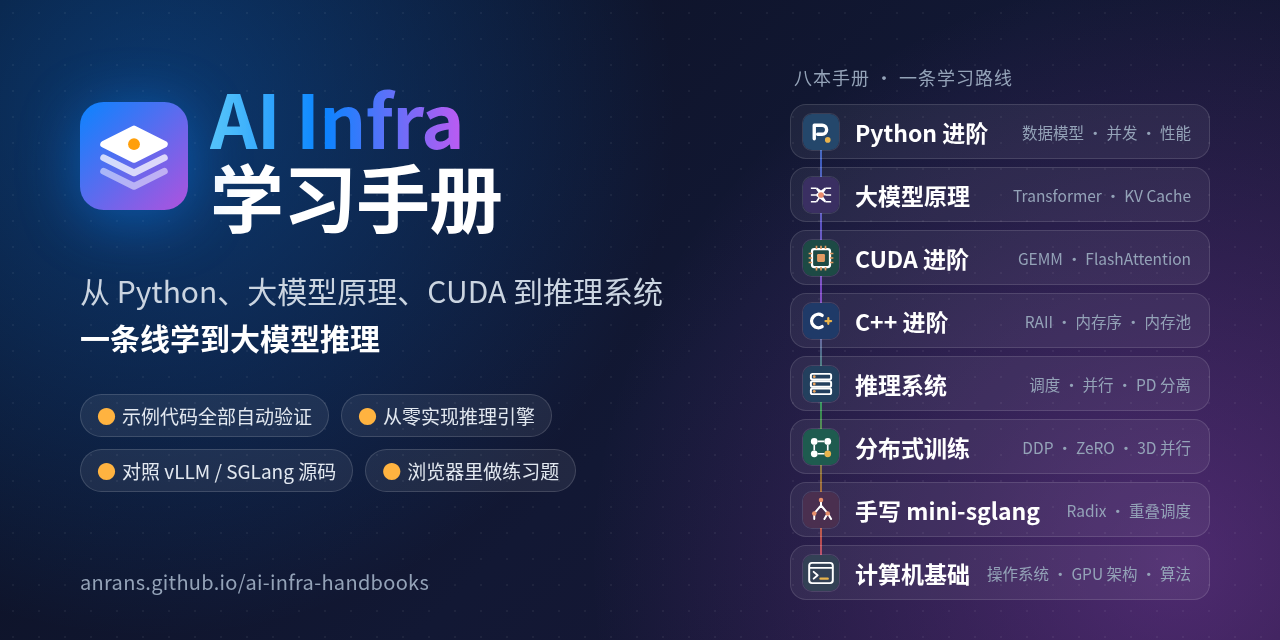
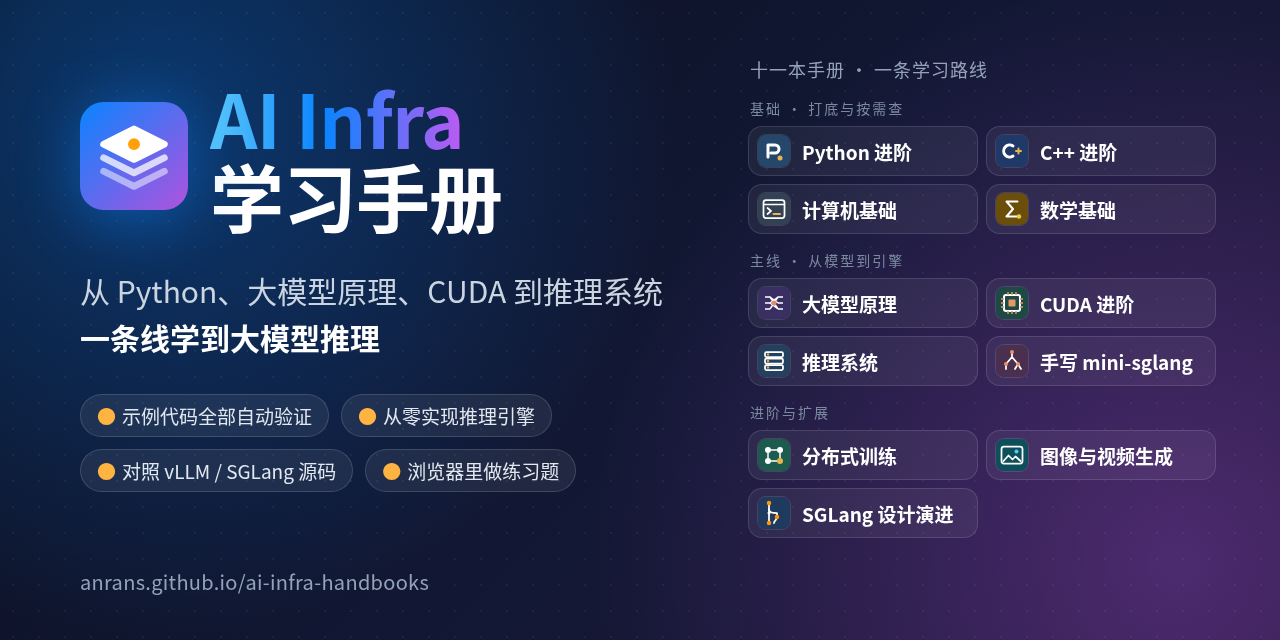
README 同步十一本手册：封面、学习路线图与说明
- 封面（README 顶部与社交预览图）：原来写着"八本手册"、只列了 8 本，改成十一本，按"基础 / 主线 / 进阶与扩展"三组排列
- 学习路线图加一条"数学基础 · 用到再查"；README 的说明、配图文字和目录结构同步（tools/redirects.py）
- 大模型原理手册的 README：模型改为 Qwen3-0.6B，说明数学已拆到数学基础手册、两本共用一套环境
- 图像与视频生成手册原来用的是计算机基础手册的图标，换成自己的图标

Changed region(s): [[0.5938, 0.1562, 0.9375, 0.9375], [0.5938, 0.0938, 0.7812, 0.1562]]

diff --git a/assets/brand/cover.html b/assets/brand/cover.html
@@ -26,16 +26,14 @@
     background: rgba(255,255,255,.07); border: 1px solid rgba(255,255,255,.14); }
   .chip i { font-style: normal; color: #ffb340; margin-right: 6px; }
   .url { position: absolute; left: 80px; bottom: 44px; font-size: 20px; color: #94a3b8; letter-spacing: .3px; }
-  .right { position: absolute; right: 70px; top: 64px; width: 420px; }
-  .rt { font-size: 18px; color: #94a3b8; margin: 0 0 14px 4px; letter-spacing: 1px; }
-  .route { position: relative; }
-  .route::before { content: ""; position: absolute; left: 30px; top: 22px; bottom: 22px; width: 2px;
-    background: linear-gradient(#3b82f6, #a855f7 40%, #22c55e 60%, #f97316 85%, #ec4899); opacity: .7; }
-  .book { position: relative; display: flex; align-items: center; gap: 16px; height: 55px; margin-bottom: 8px;
-    padding: 0 18px 0 12px; border-radius: 16px; background: rgba(255,255,255,.06); border: 1px solid rgba(255,255,255,.12); }
-  .ico { width: 36px; height: 36px; flex: none; border-radius: 9px; box-shadow: 0 0 0 1px rgba(255,255,255,.12); }
-  .name { font-size: 23px; font-weight: 700; flex: none; }
-  .desc { font-size: 15.5px; color: #94a3b8; margin-left: auto; white-space: nowrap; }
+  .right { position: absolute; right: 64px; top: 56px; width: 468px; }
+  .rt { font-size: 18px; color: #94a3b8; margin: 0 0 4px 2px; letter-spacing: 1px; }
+  .grp { font-size: 14px; color: #7c8aa0; margin: 16px 0 8px 2px; letter-spacing: 2px; }
+  .books { display: grid; grid-template-columns: 1fr 1fr; gap: 8px; }
+  .book { display: flex; align-items: center; gap: 12px; height: 50px; padding: 0 12px 0 9px; border-radius: 14px;
+    background: rgba(255,255,255,.06); border: 1px solid rgba(255,255,255,.12); }
+  .ico { width: 32px; height: 32px; flex: none; border-radius: 8px; box-shadow: 0 0 0 1px rgba(255,255,255,.12); }
+  .name { font-size: 19px; font-weight: 700; white-space: nowrap; }
 </style></head>
 <body>
   <div class="grid"></div>
@@ -51,16 +49,26 @@
   </div>
   <div class="url">anrans.github.io/ai-infra-handbooks</div>
   <div class="right">
-    <div class="rt">八本手册 · 一条学习路线</div>
-    <div class="route">
-      <div class="book"><img class="ico" src="../../python/docs/assets/favicon.svg" alt=""><span class="name">Python 进阶</span><span class="desc">数据模型 · 并发 · 性能</span></div>
-      <div class="book"><img class="ico" src="../../llm/docs/assets/favicon.svg" alt=""><span class="name">大模型原理</span><span class="desc">Transformer · KV Cache</span></div>
-      <div class="book"><img class="ico" src="../../cuda/docs/assets/favicon.svg" alt=""><span class="name">CUDA 进阶</span><span class="desc">GEMM · FlashAttention</span></div>
-      <div class="book"><img class="ico" src="../../cpp/docs/assets/favicon.svg" alt=""><span class="name">C++ 进阶</span><span class="desc">RAII · 内存序 · 内存池</span></div>
-      <div class="book"><img class="ico" src="../../serving/docs/assets/favicon.svg" alt=""><span class="name">推理系统</span><span class="desc">调度 · 并行 · PD 分离</span></div>
-      <div class="book"><img class="ico" src="../../train/docs/assets/favicon.svg" alt=""><span class="name">分布式训练</span><span class="desc">DDP · ZeRO · 3D 并行</span></div>
-      <div class="book"><img class="ico" src="../../minisgl/docs/assets/favicon.svg" alt=""><span class="name">手写 mini-sglang</span><span class="desc">Radix · 重叠调度</span></div>
-      <div class="book"><img class="ico" src="../../cs/docs/assets/favicon.svg" alt=""><span class="name">计算机基础</span><span class="desc">操作系统 · GPU 架构 · 算法</span></div>
-    </div>
+    <div class="rt">十一本手册 · 一条学习路线</div>
+    <div class="grp">基础 · 打底与按需查</div>
+      <div class="books">
+        <div class="book"><img class="ico" src="../../python/docs/assets/favicon.svg" alt=""><span class="name">Python 进阶</span></div>
+        <div class="book"><img class="ico" src="../../cpp/docs/assets/favicon.svg" alt=""><span class="name">C++ 进阶</span></div>
+        <div class="book"><img class="ico" src="../../cs/docs/assets/favicon.svg" alt=""><span class="name">计算机基础</span></div>
+        <div class="book"><img class="ico" src="../../math/docs/assets/favicon.svg" alt=""><span class="name">数学基础</span></div>
+      </div>
+    <div class="grp">主线 · 从模型到引擎</div>
+      <div class="books">
+        <div class="book"><img class="ico" src="../../llm/docs/assets/favicon.svg" alt=""><span class="name">大模型原理</span></div>
+        <div class="book"><img class="ico" src="../../cuda/docs/assets/favicon.svg" alt=""><span class="name">CUDA 进阶</span></div>
+        <div class="book"><img class="ico" src="../../serving/docs/assets/favicon.svg" alt=""><span class="name">推理系统</span></div>
+        <div class="book"><img class="ico" src="../../minisgl/docs/assets/favicon.svg" alt=""><span class="name">手写 mini-sglang</span></div>
+      </div>
+    <div class="grp">进阶与扩展</div>
+      <div class="books">
+        <div class="book"><img class="ico" src="../../train/docs/assets/favicon.svg" alt=""><span class="name">分布式训练</span></div>
+        <div class="book"><img class="ico" src="../../media/docs/assets/favicon.svg" alt=""><span class="name">图像与视频生成</span></div>
+        <div class="book"><img class="ico" src="../../sglang/docs/assets/favicon.svg" alt=""><span class="name">SGLang 设计演进</span></div>
+      </div>
   </div>
 </body></html>

diff --git a/assets/brand/path.html b/assets/brand/path.html
@@ -1,13 +1,13 @@
 <!doctype html>
 <!-- README 里的学习路线图，亮色、暗色各一张（背景色与 GitHub 的页面一致）。改完重新截图：
-     chromium --headless --hide-scrollbars --force-device-scale-factor=2 --window-size=1360,540 --screenshot=path-light.png "file://$PWD/path.html"
-     chromium --headless --hide-scrollbars --force-device-scale-factor=2 --window-size=1360,540 --screenshot=path-dark.png "file://$PWD/path.html#dark" -->
+     chromium --headless --hide-scrollbars --force-device-scale-factor=2 --window-size=1360,624 --screenshot=path-light.png "file://$PWD/path.html"
+     chromium --headless --hide-scrollbars --force-device-scale-factor=2 --window-size=1360,624 --screenshot=path-dark.png "file://$PWD/path.html#dark" -->
 <html lang="zh-CN"><head><meta charset="utf-8">
 <style>
   * { box-sizing: border-box; margin: 0; padding: 0; }
   :root { --bg: #ffffff; --card: #f6f8fa; --line: #d0d7de; --fg: #1f2328; --muted: #59636e; --arrow: #8c959f; }
   :root.dark { --bg: #0d1117; --card: #161b22; --line: #30363d; --fg: #f0f6fc; --muted: #9198a1; --arrow: #6e7681; }
-  html, body { width: 1360px; height: 540px; background: var(--bg); }
+  html, body { width: 1360px; height: 624px; background: var(--bg); }
   body { font-family: "Noto Sans CJK SC", sans-serif; color: var(--fg); position: relative; overflow: hidden; }
   .card { position: absolute; width: 228px; padding: 18px 18px 16px; border-radius: 16px; background: var(--card);
           border: 1px solid var(--line); border-top: 4px solid var(--c); }
@@ -22,7 +22,7 @@
   .tag { position: absolute; font-size: 16px; color: var(--muted); background: var(--bg); padding: 2px 8px;
          border: 1px solid var(--line); border-radius: 999px; white-space: nowrap; transform: translateX(-50%); }
   .c-blue { --c: #007aff; } .c-purple { --c: #af52de; } .c-orange { --c: #ff9500; } .c-brown { --c: #a2845e; }
-  .c-green { --c: #34c759; } .c-mint { --c: #00c7be; } .c-pink { --c: #ff2d55; } .c-slate { --c: #64748b; }
+  .c-green { --c: #34c759; } .c-mint { --c: #00c7be; } .c-pink { --c: #ff2d55; } .c-slate { --c: #64748b; } .c-gold { --c: #d4a017; }
   .bar { position: absolute; left: 16px; right: 16px; display: flex; align-items: center; gap: 14px; padding: 14px 18px;
          border-radius: 16px; background: var(--card); border: 1px solid var(--line); border-left: 4px solid var(--c); }
   .bar img { width: 40px; height: 40px; border-radius: 10px; flex: none; }
@@ -50,4 +50,6 @@
   <div class="card c-mint"  style="left:832px; top:264px"><div class="n">与分布式推理并行</div><div class="t"><img src="../../train/docs/assets/favicon.svg" alt=""><b>分布式训练</b></div><p class="d">DDP、ZeRO，TP / PP / EP 与推理一一对应</p></div>
   <!-- 贯穿全程的一本：学到哪一站需要就补哪一章 -->
   <div class="bar c-slate" style="top:462px"><img src="../../cs/docs/assets/favicon.svg" alt=""><span class="n">贯穿全程</span><b>计算机基础</b><span class="d">操作系统、GPU 架构、网络、分布式与算法：学到哪一站需要就补哪一章，面试前集中复习</span></div>
+  <!-- 用到再查的一本：读到哪一站卡住，就查对应的一节 -->
+  <div class="bar c-gold" style="top:546px"><img src="../../math/docs/assets/favicon.svg" alt=""><span class="n">用到再查</span><b>数学基础</b><span class="d">线性代数与低秩、概率与采样、信息论、浮点误差、屋顶线与排队论：读到哪一站卡住，就查对应的一节</span></div>
 </body></html>

diff --git a/README.md b/README.md
@@ -28,7 +28,7 @@
 
 **11** 本手册 · **281** 章 · **283** 道练习题 · **1977** 张学习卡 · **85** 道面试高频题
 
-这是一套面向大模型推理（推理框架、推理优化、推理平台）的中文学习手册。它从写地道的 Python 和 C++ 开始，讲清大模型在算什么、GPU 怎么算得快，接着从零写一个推理引擎、对照 vLLM 和 SGLang 的源码读懂工业级实现，最后把所有概念落到一个手写的 mini-sglang 上。十一本书互相链接：大模型手册讲到 FlashAttention，会直接链到 CUDA 手册里对应的 kernel 实现。
+这是一套面向大模型推理（推理框架、推理优化、推理平台）的中文学习手册。它从写地道的 Python 和 C++ 开始，讲清大模型在算什么、GPU 怎么算得快，接着从零写一个推理引擎、对照 vLLM 和 SGLang 的源码读懂工业级实现，最后把所有概念落到一个手写的 mini-sglang 上。十一本书互相链接：大模型手册讲到 FlashAttention，会直接链到 CUDA 手册里对应的 kernel 实现；用到的数学，则链到数学基础手册里对应的那一节。
 
 ## 特色
 
@@ -77,7 +77,7 @@
 
 <picture>
   <source media="(prefers-color-scheme: dark)" srcset="assets/brand/path-dark.png">
-  <img src="assets/brand/path-light.png" alt="学习路线：Python 进阶 → 大模型原理 → CUDA 进阶（同时学 C++ 进阶）→ 推理系统（对照学分布式训练）→ 手写 mini-sglang" width="100%">
+  <img src="assets/brand/path-light.png" alt="学习路线：Python 进阶 → 大模型原理 → CUDA 进阶（同时学 C++ 进阶）→ 推理系统（对照学分布式训练）→ 手写 mini-sglang；计算机基础贯穿全程，数学基础用到再查" width="100%">
 </picture>
 
 - 网站上的[学习路线图](https://anrans.github.io/ai-infra-handbooks/roadmap/)把 281 章按 17 周排好，标出每章是必学还是选学、不同方向的重点和跨书的知识依赖，还能记录进度；已经熟悉的内容做完章首自测就可以跳过。
@@ -174,7 +174,8 @@ python3 -m http.server 8000 --directory _site                 # 打开 http://lo
 ├── theme/                   十一本手册共用的 MkDocs Material 主题覆盖：顶栏、页面样式、各章的学习条与交互小工具
 ├── hooks/                   MkDocs 钩子：跨手册链接、每章末尾的练习题列表、示意图内联、导出 Jupyter notebook
 ├── tools/                   站点工具：site_stats.py（同步统计数字）、check_links.py、check_sources.py、cards.py（学习卡）、
-│                            search_index.py（全站搜索）、figures.py（示意图）、mac_check.py（环境自检）、refresh_outputs.py
+│                            search_index.py（全站搜索）、figures.py（示意图）、mac_check.py（环境自检）、refresh_outputs.py、
+│                            redirects.py（搬了家的页面在旧地址留跳转页）
 ├── env/                     setup-macos.sh：Mac 上一键准备全部手册的环境
 ├── assets/brand/            logo 与封面（cover.html 是封面的源文件）
 ├── build.sh                 构建全部手册、练习题、学习卡和搜索索引到 _site/

diff --git a/llm/README.md b/llm/README.md
@@ -1,7 +1,8 @@
 # 大模型原理手册
 
-推理优化的前置知识：从语言模型、Transformer 到推理服务。MkDocs Material 站点，源文件在 `docs/`。
+推理优化的前置知识：从语言模型、Transformer 到推理服务。MkDocs Material 站点，源文件在 `docs/`。用到的数学（线性代数与低秩、概率与采样、信息论、反向传播、浮点误差、屋顶线与排队论）在单独的[数学基础手册](../math/)里，正文用到时链接过去。
 
-- 构建：`.venv/bin/mkdocs build --strict`（依赖见 `requirements-docs.txt`）
-- 校验全部代码：`.venv-llm/bin/python tools/check_code.py`（需要 CPU 版 PyTorch、transformers 与 `models/Qwen2.5-0.5B-Instruct`；全部通过后会打包 `docs/assets/llm-code.tar.gz`）
-- 三本手册合并构建：在仓库根目录运行 `./build.sh`
+- 构建：在仓库根目录运行 `.venv/bin/mkdocs build --strict -f llm/mkdocs.yml`（依赖见 `requirements-docs.txt`）
+- 校验全部代码：`.venv-llm/bin/python tools/check_code.py`（需要 CPU 版 PyTorch、transformers 与 `models/Qwen3-0.6B`；全部通过后会打包 `docs/assets/llm-code.tar.gz`）
+- 数学基础手册的例子也用这套环境：在仓库根目录运行 `llm/.venv-llm/bin/python math/tools/check_code.py`
+- 全部手册合并构建：在仓库根目录运行 `./build.sh`
